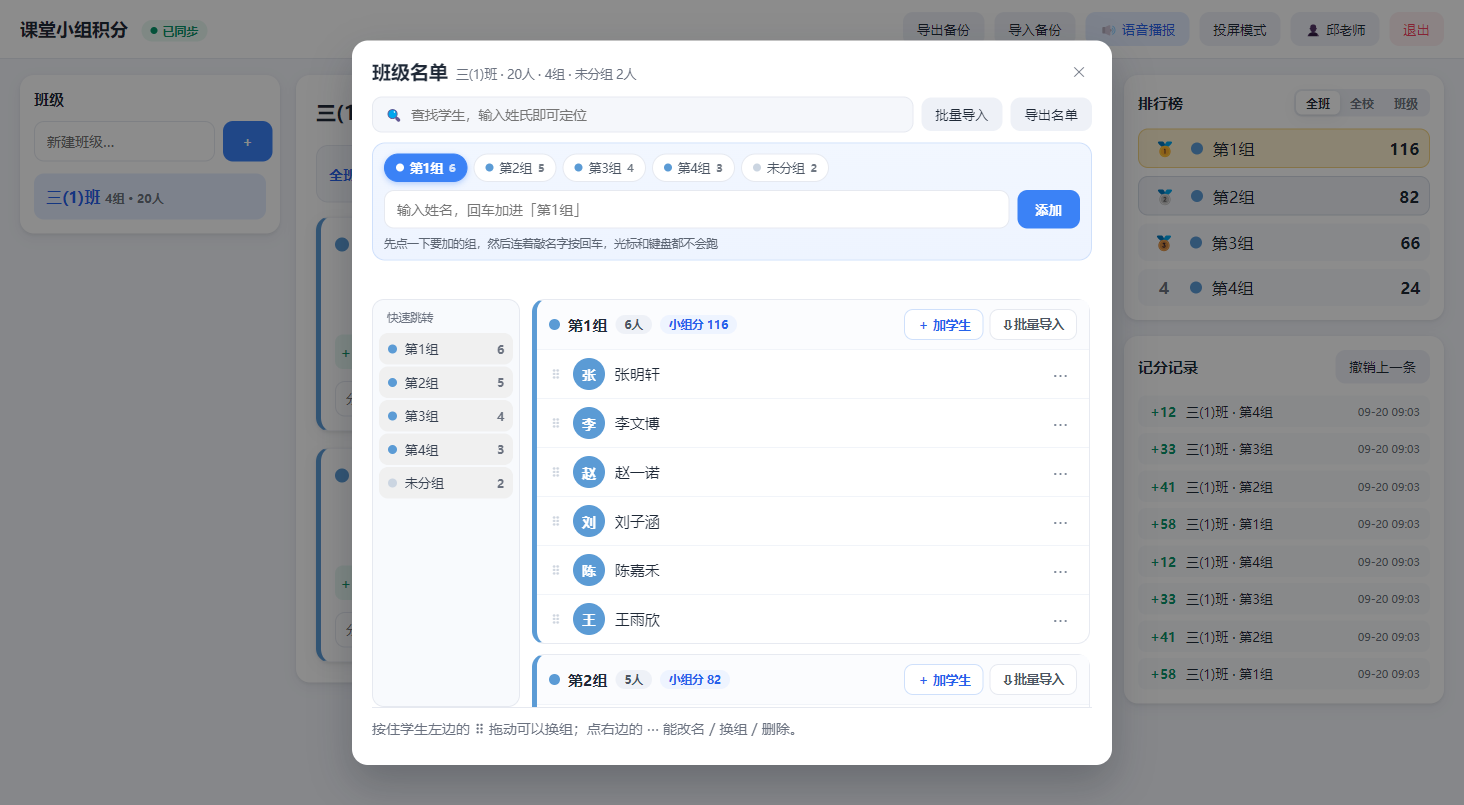
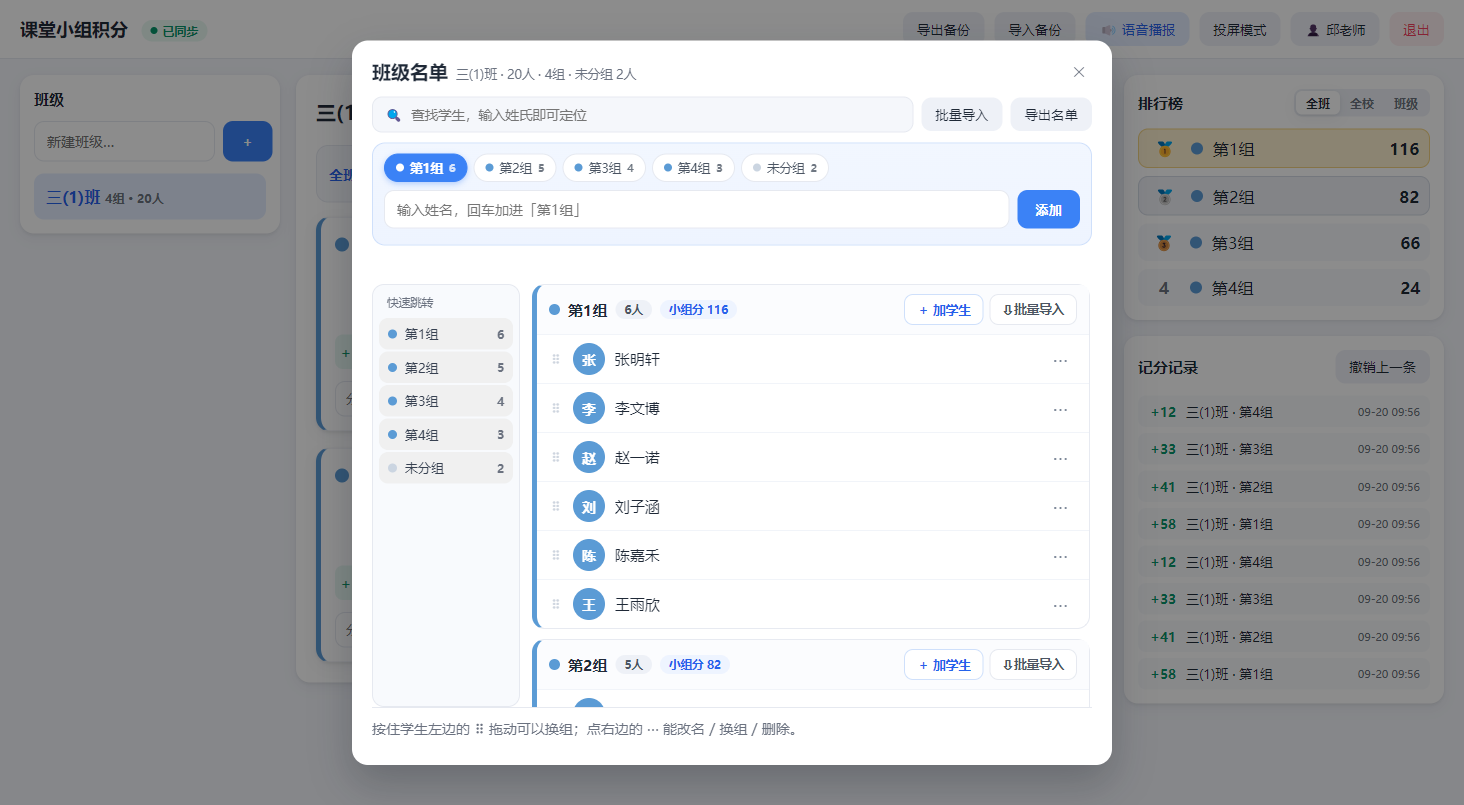
班级名单：去掉快速添加条下面那句说明文字，顺手清掉对应的移动端隐藏规则，预览图同步重拍

diff --git a/application/static/index.html b/application/static/index.html
@@ -8,7 +8,7 @@
   <link rel="icon" type="image/png" sizes="32x32" href="/favicon-32.png?v=20260915">
   <link rel="icon" href="/favicon.ico?v=20260915" sizes="any">
   <link rel="apple-touch-icon" href="/apple-touch-icon.png?v=20260915">
-  <link rel="stylesheet" href="/style.css?v=20260920b">
+  <link rel="stylesheet" href="/style.css?v=20260920c">
 </head>
 <body>
 
@@ -153,7 +153,6 @@
           <button id="roster-add-btn" class="primary" type="button">添加</button>
         </div>
         <div class="rq-hint">
-          <span>先点一下要加的组，然后连着敲名字按回车，光标和键盘都不会跑</span>
           <button id="roster-undo" class="rq-undo hidden" type="button">撤销上一个</button>
         </div>
       </div>
@@ -206,6 +205,6 @@
     <div id="projector-board" class="projector-board"></div>
   </div>
 
-  <script src="/app.js?v=20260920b"></script>
+  <script src="/app.js?v=20260920c"></script>
 </body>
 </html>

diff --git a/application/static/style.css b/application/static/style.css
@@ -690,7 +690,6 @@ html { -webkit-text-size-adjust: 100%; }
   .roster-search { flex: 1 1 100%; }
   .roster-tools button { flex: 1 1 0; padding: 10px 8px; }
   .rq-row input, .roster-search input, .sm-row input, .sm-row select { font-size: 16px; }
-  .rq-hint span { display: none; }
   .stu-row { padding: 10px 10px; }
   .stu-grip { font-size: 16px; padding: 9px 4px; }
   .stu-more { width: 40px; height: 38px; font-size: 17px; }
